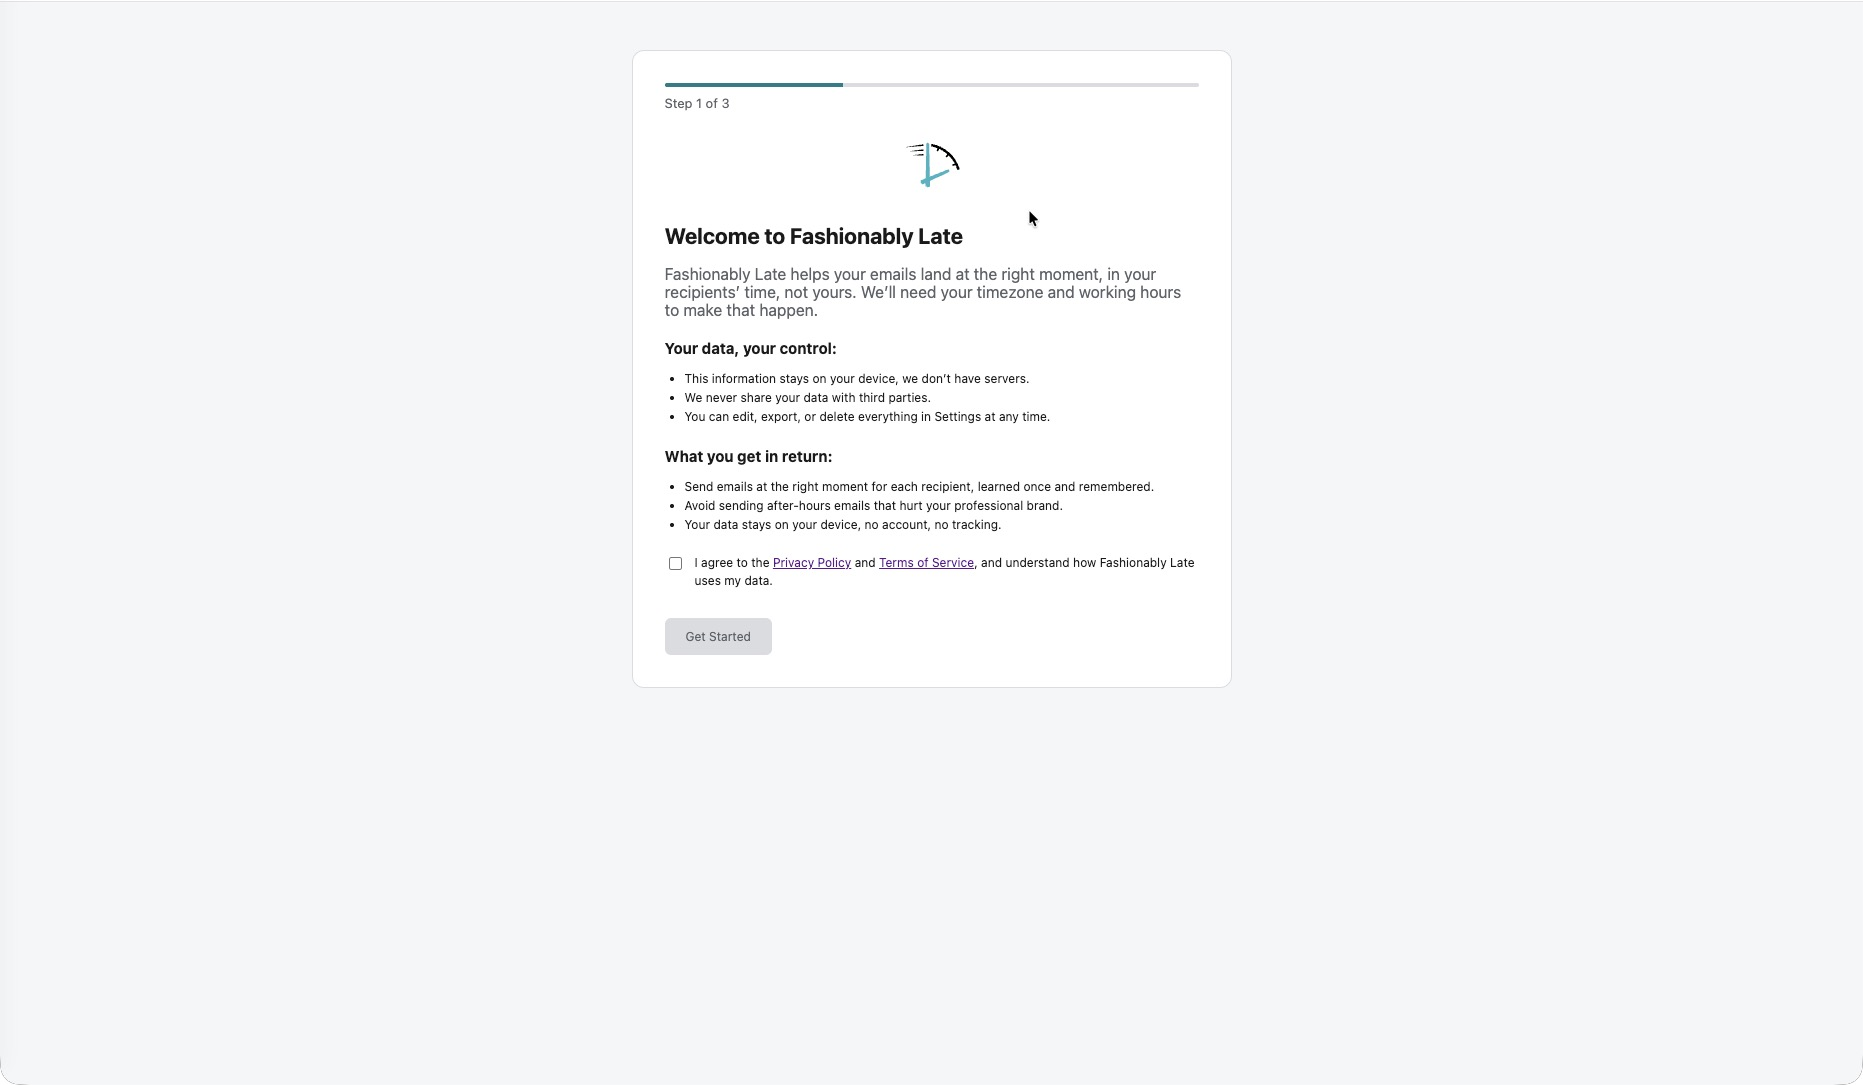
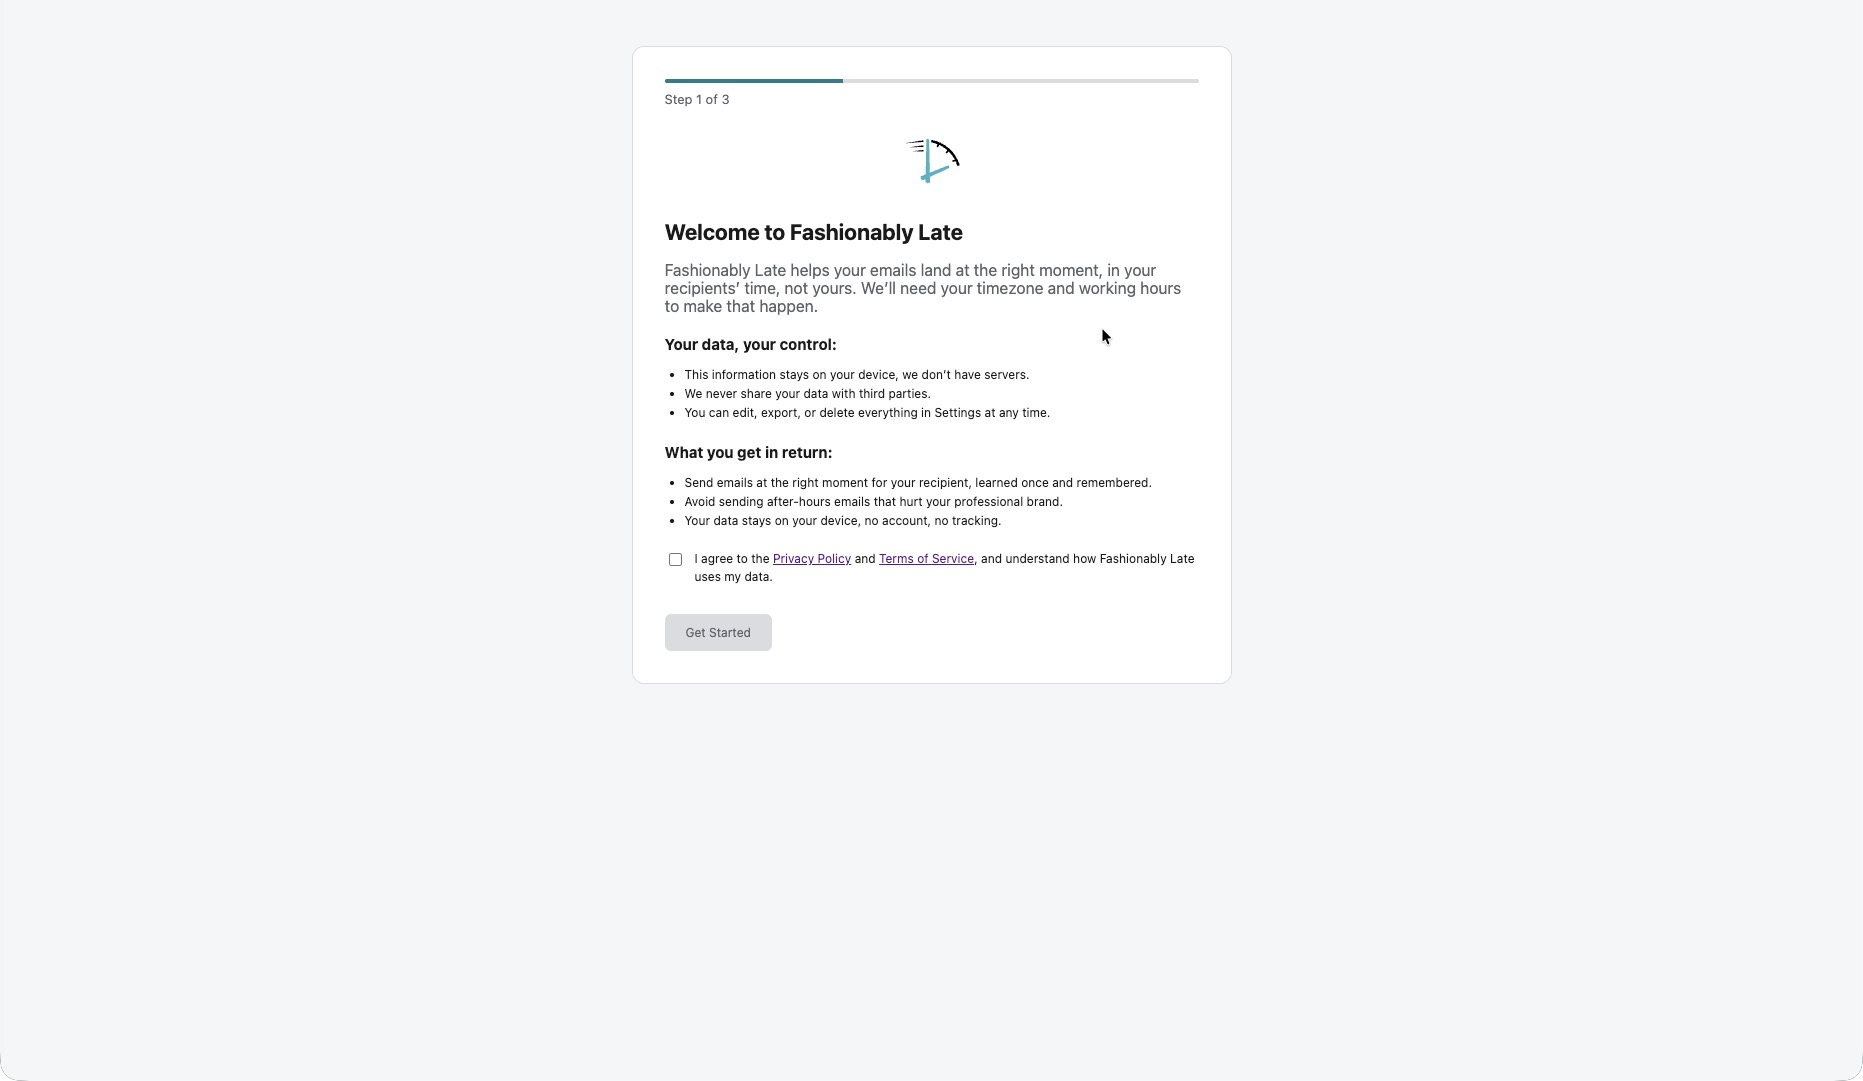
assets(site): refresh "A closer look" onboarding tile to latest capture
Updated docs onboarding screenshot to the owner's latest Onboarding.jpg
(1863x1081; height attr 1085->1081) and regenerated its store-ready PNG via
make-store-ready.py (originals immutable, SHA-256 unchanged). Website-only.

diff --git a/docs/index.html b/docs/index.html
@@ -892,7 +892,7 @@ title: "Fashionably Late — Schedule Gmail emails in your recipient's time zone
                     src="/assets/screenshots/onboarding.jpg"
                     alt="Fashionably Late's onboarding Welcome screen, with the brand symbol, a plain-language privacy summary, and the consent checkbox."
                     width="1863"
-                    height="1085"
+                    height="1081"
                   />
                   <figcaption>Privacy-first onboarding — your data, your control.</figcaption>
                 </figure>